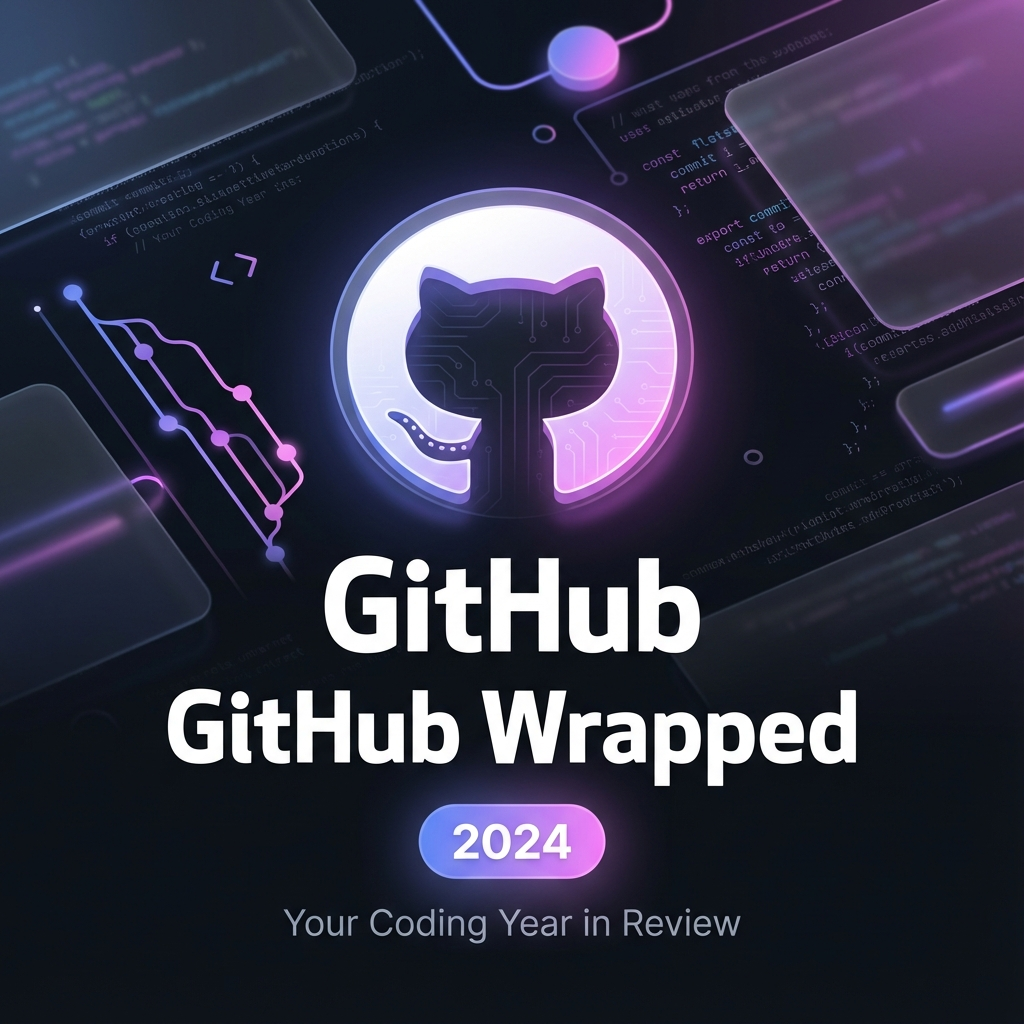
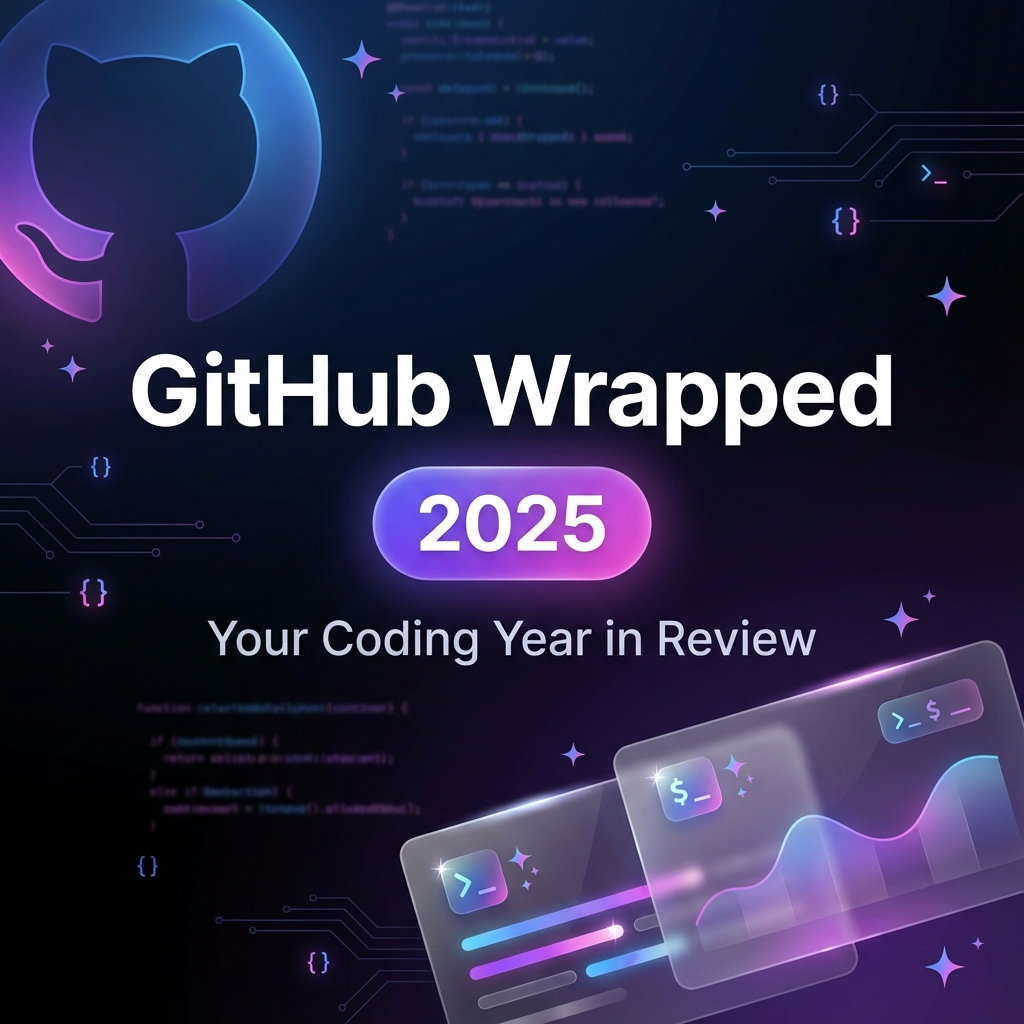
Add files via upload

diff --git a/index.html b/index.html
@@ -72,7 +72,7 @@
                     </svg>
                     <div class="hero-title-group">
                         <h1 class="hero-title">GitHub Wrapped</h1>
-                        <span class="year-badge">2024</span>
+                        <span class="year-badge">2025</span>
                     </div>
                 </div>
                 <p class="hero-subtitle">Your coding year in review</p>
@@ -119,8 +119,8 @@
                     <div class="form-group">
                         <label for="year-select">Year</label>
                         <select id="year-select" class="year-select" style="position: relative; z-index: 60;">
-                            <option value="2025">2025</option>
-                            <option value="2024" selected>2024</option>
+                            <option value="2025" selected>2025</option>
+                            <option value="2024">2024</option>
                             <option value="2023">2023</option>
                             <option value="2022">2022</option>
                             <!-- More years populated by auto-year.js -->

diff --git a/auto-year.js b/auto-year.js
@@ -36,12 +36,8 @@ document.addEventListener('DOMContentLoaded', function () {
     const currentMonth = now.getMonth() + 1; // 0-indexed, so add 1
 
     // Determine which year's wrapped to show
-    let wrappedYear;
-    if (currentMonth <= 3) {
-        wrappedYear = currentYear - 1;
-    } else {
-        wrappedYear = currentYear - 1;
-    }
+    // Use current year as the default
+    let wrappedYear = currentYear;
 
     console.log(`Auto-detected wrapped year: ${wrappedYear}`);
 
@@ -61,8 +57,7 @@ document.addEventListener('DOMContentLoaded', function () {
         yearSelect.innerHTML = '';
 
         // Generate options from current year down to 2020
-        // (Include current year if we're in December, otherwise start from last year)
-        const startYear = (currentMonth === 12) ? currentYear : (currentMonth > 6 ? currentYear : currentYear - 1);
+        const startYear = currentYear;
         const endYear = 2020;
 
         for (let year = startYear; year >= endYear; year--) {
